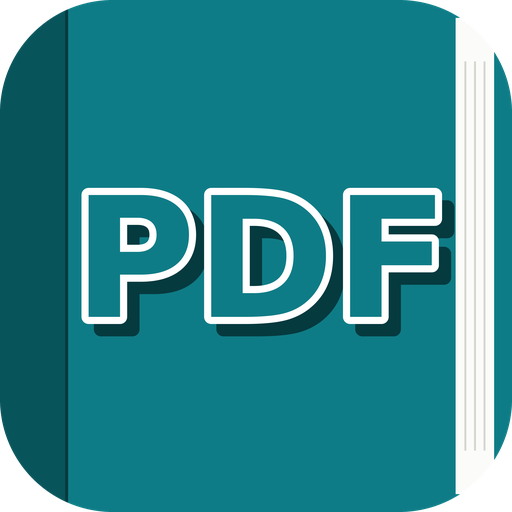
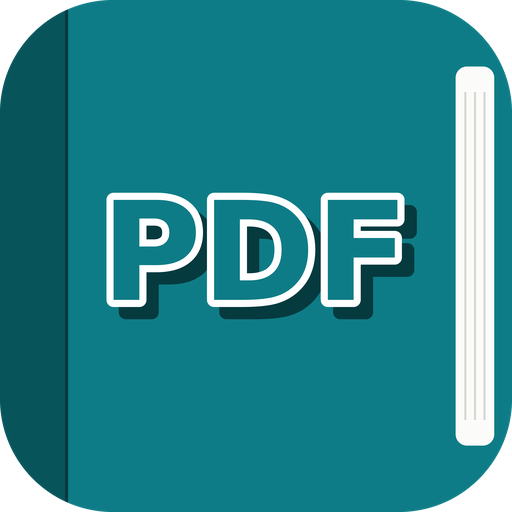
Close the gap where the cover meets the pages
Two separate causes, both on the right seam.

The lettering was sized from the glyph box alone, so the white stroke and
the shadow offset pushed past it. Measured at 512: the ink reached 3747
while the cover ended at 3645, and the overhang punched into the page
block. The size is now solved from the ink the lettering actually lays
down, stroke and shadow included, and it lands at 3427 with room to
spare.

The page block itself was inset from the top and bottom by 3.5% while
the silhouette's corner radius is 22%, so the rounded mask sliced a wedge
off each end of it. It now clears that radius and carries soft corners of
its own.

Straight edges still hold no transparent pixel, and the maskable variant
was rechecked under a circular crop.

Claude-Session: https://claude.ai/code/session_01RXAbZTiFHr8Z2TxTGT6to7

Changed region(s): [[0.1562, 0.3438, 0.9062, 0.6562], [0.875, 0.8125, 0.9688, 0.9688], [0.875, 0.0312, 0.9688, 0.1875]]

diff --git a/service-worker.js b/service-worker.js
@@ -9,7 +9,7 @@
 //
 // Bump CACHE_VERSION when a precached library changes, or to force every
 // installed copy to discard what it has.
-const CACHE_VERSION = 'pdf-studio-v4';
+const CACHE_VERSION = 'pdf-studio-v5';
 
 const PRECACHE = [
   './',

diff --git a/icons/generate-icons.py b/icons/generate-icons.py
@@ -33,23 +33,29 @@ def book_icon(size, maskable=False):
     img = Image.new('RGBA', (S, S), TEAL)
     d = ImageDraw.Draw(img)
 
+    # letter is the share of the cover the lettering may occupy, measured as
+    # real ink: glyph box plus the stroke on both sides plus the shadow offset.
     if maskable:
-        radius, letter = 0, 0.33
+        radius, letter = 0, 0.62
     else:
-        radius, letter = S * 0.22, 0.43
+        radius, letter = S * 0.22, 0.86
 
     x0, y0, x1, y1 = 0, 0, S, S
     w = x1 - x0
 
-    # page block along the fore edge, with the cover wrapping past it so the
-    # silhouette stays teal on every side. Left flush to the edge, the cream
-    # pages vanish into a light background and the icon looks bitten off.
+    # Page block along the fore edge. The cover wraps past it on every side:
+    # flush to the edge the cream pages vanish into a light background, and
+    # anywhere inside the corner radius the rounded silhouette slices a wedge
+    # out of them. Hence a vertical inset larger than that radius, and soft
+    # corners of its own so the block reads as deliberate.
     edge = w * 0.035
     pages = w * 0.11
-    d.rectangle([x1 - pages, y0 + edge, x1 - edge, y1 - edge], fill=PAGE)
+    top = w * 0.13
+    d.rounded_rectangle([x1 - pages, y0 + top, x1 - edge, y1 - top],
+                        radius=w * 0.022, fill=PAGE)
     for i in range(1, 4):
         lx = x1 - pages + (pages - edge) * i / 4
-        d.line([(lx, y0 + (y1 - y0) * 0.12), (lx, y1 - (y1 - y0) * 0.12)],
+        d.line([(lx, y0 + top + (y1 - y0) * 0.05), (lx, y1 - top - (y1 - y0) * 0.05)],
                fill=PAGE_LINE, width=max(1, int(S * 0.004)))
 
     # spine along the bound edge
@@ -57,15 +63,28 @@ def book_icon(size, maskable=False):
     d.rectangle([x0, y0, x0 + spine, y1], fill=SPINE)
     d.line([(x0 + spine, y0), (x0 + spine, y1)], fill=SHADOW, width=max(1, int(S * 0.006)))
 
-    # "PDF" across the cover
+    # "PDF" across the cover. The size is solved from the ink the lettering
+    # actually lays down, not from the glyph box alone: sizing on the glyphs
+    # let the stroke and the shadow spill over the seam onto the page block.
     cover_l, cover_r = x0 + spine, x1 - pages
     cover_w = cover_r - cover_l
-    font = ImageFont.truetype(FONT, int(cover_w * letter))
-    l, t, r, b = d.textbbox((0, 0), 'PDF', font=font)
-    tx = cover_l + (cover_w - (r - l)) / 2 - l
-    ty = y0 + ((y1 - y0) - (b - t)) / 2 - t
     off = S * 0.024
     stroke = max(1, int(S * 0.014))
+
+    available = cover_w * letter - off - 2 * stroke
+    guess = int(available / 1.9)
+    for _ in range(6):
+        font = ImageFont.truetype(FONT, max(8, guess))
+        l, t, r, b = d.textbbox((0, 0), 'PDF', font=font)
+        if abs((r - l) - available) <= available * 0.01:
+            break
+        guess = int(guess * available / max(r - l, 1))
+
+    l, t, r, b = d.textbbox((0, 0), 'PDF', font=font)
+    ink_w = (r - l) + off + 2 * stroke
+    ink_h = (b - t) + off + 2 * stroke
+    tx = cover_l + (cover_w - ink_w) / 2 + stroke - l
+    ty = y0 + ((y1 - y0) - ink_h) / 2 + stroke - t
 
     # Solid shadow first, then the letter filled with the cover colour, so only
     # the outward half of the white stroke shows. That is what makes the letter
